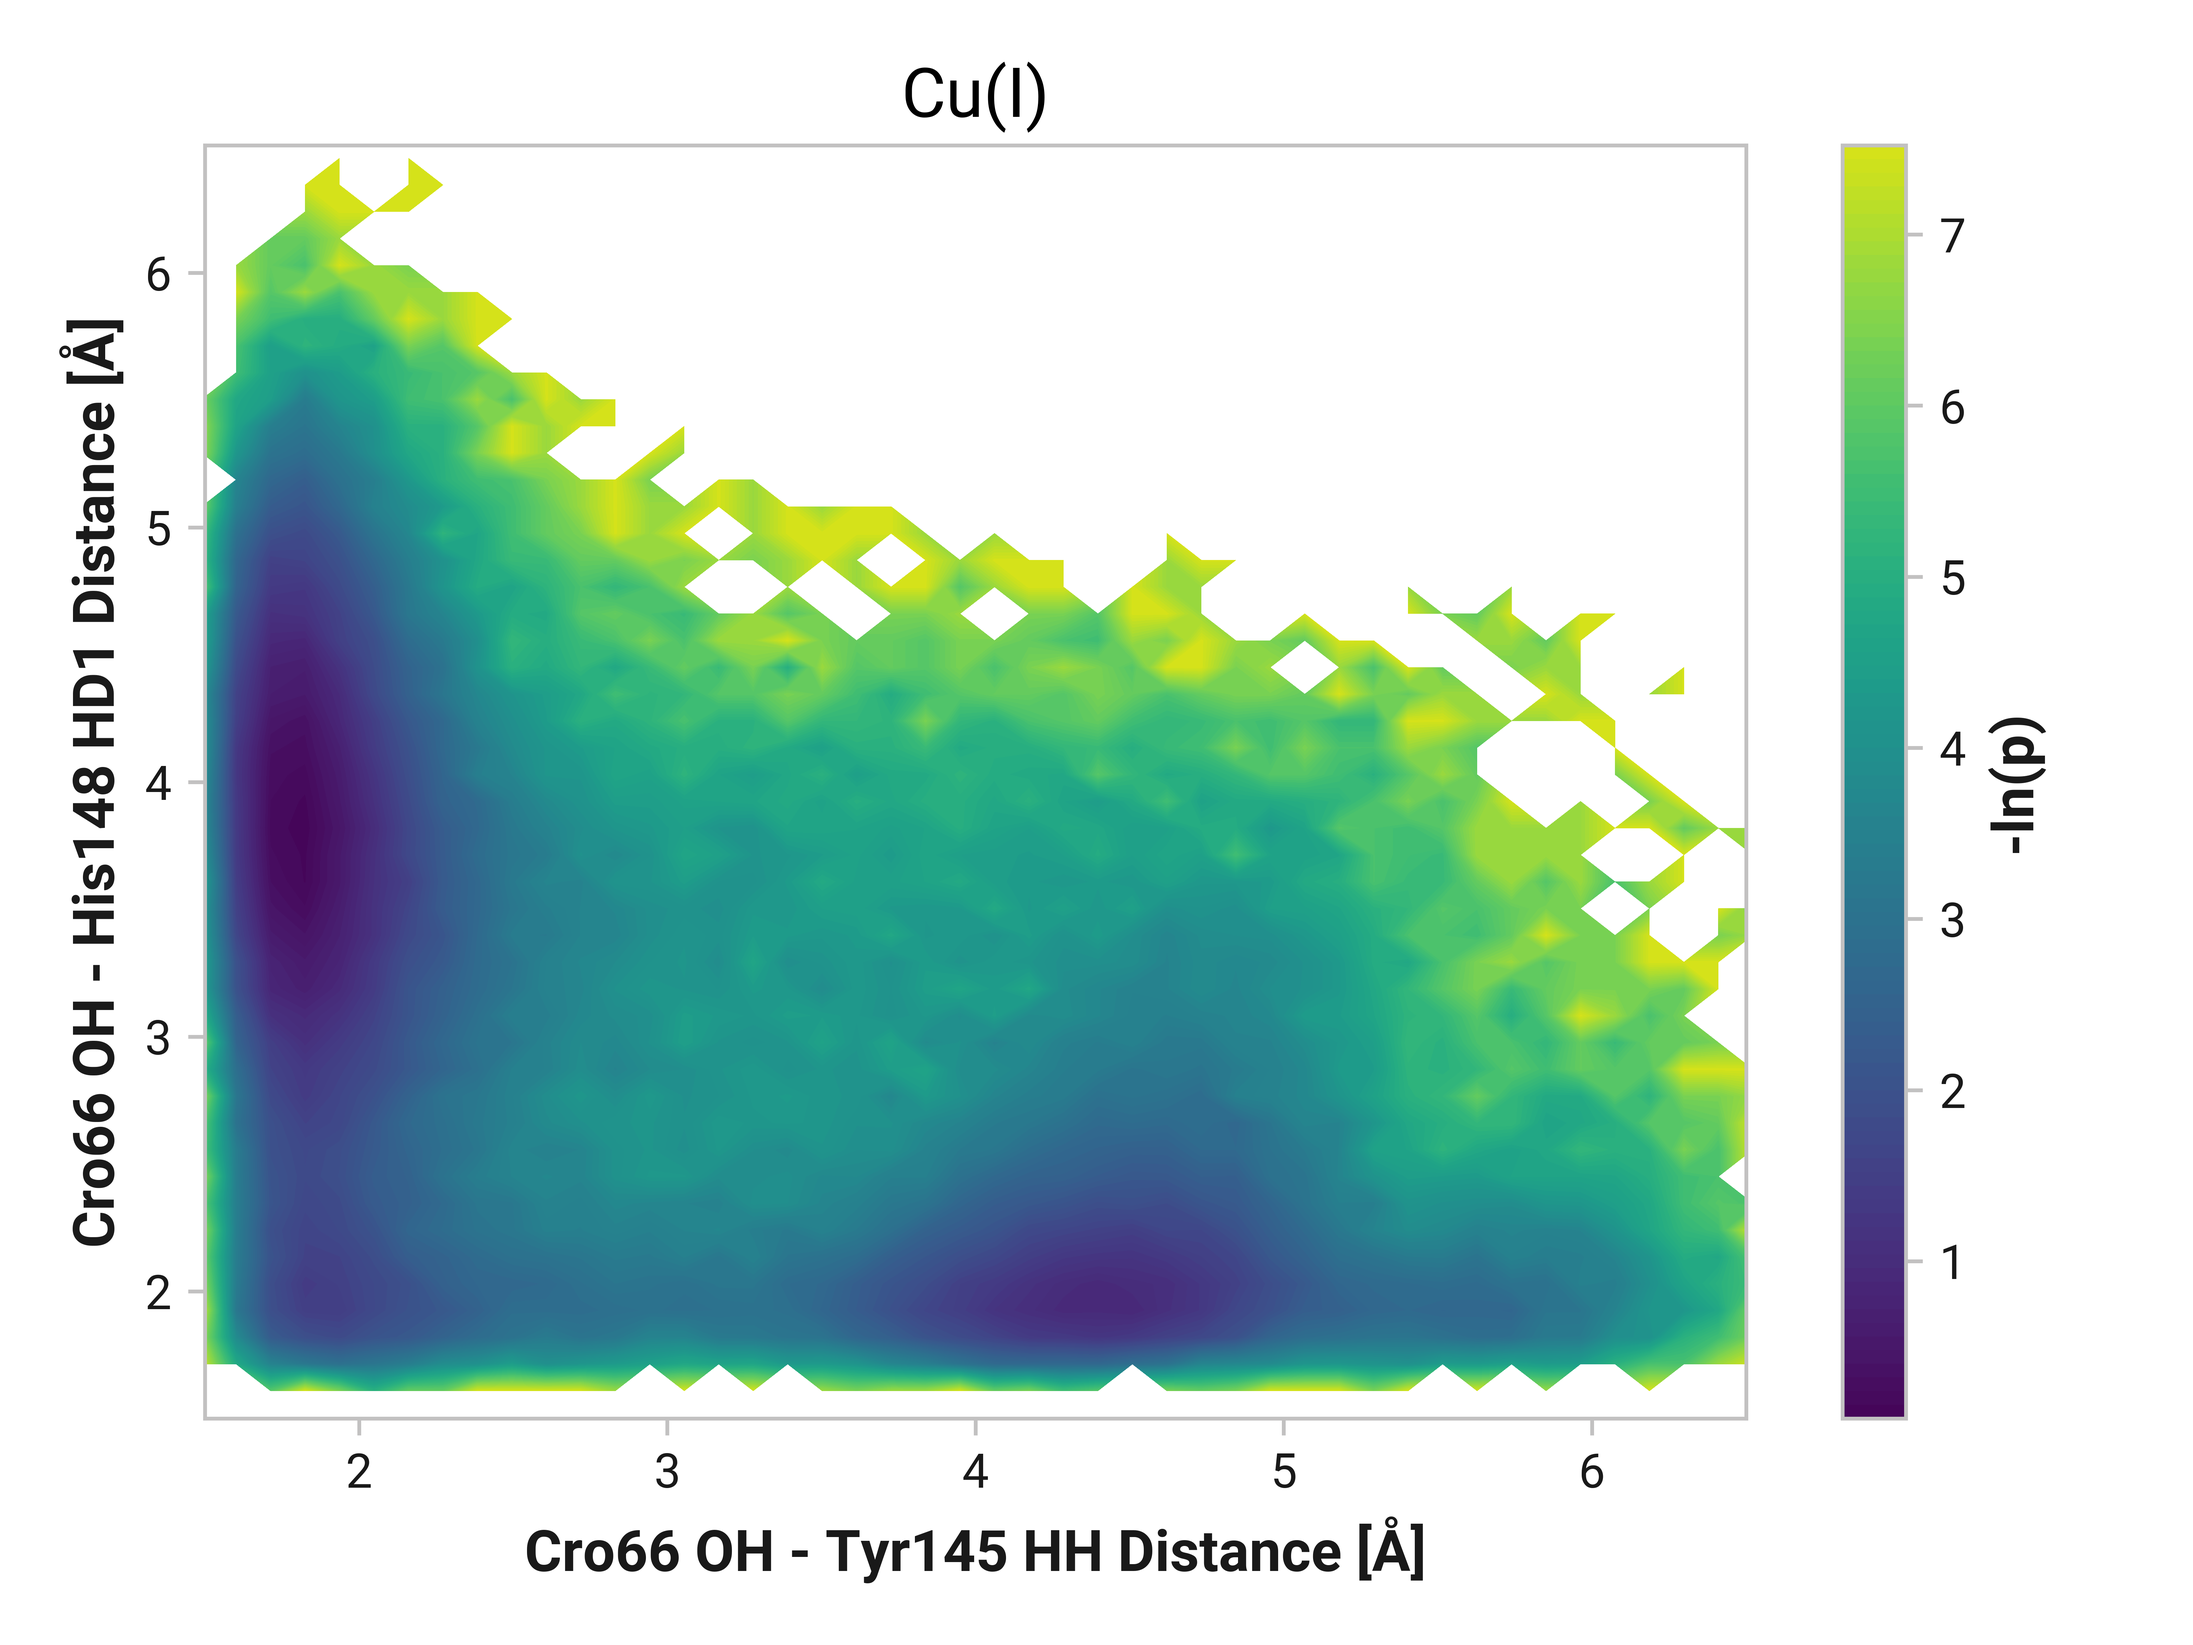
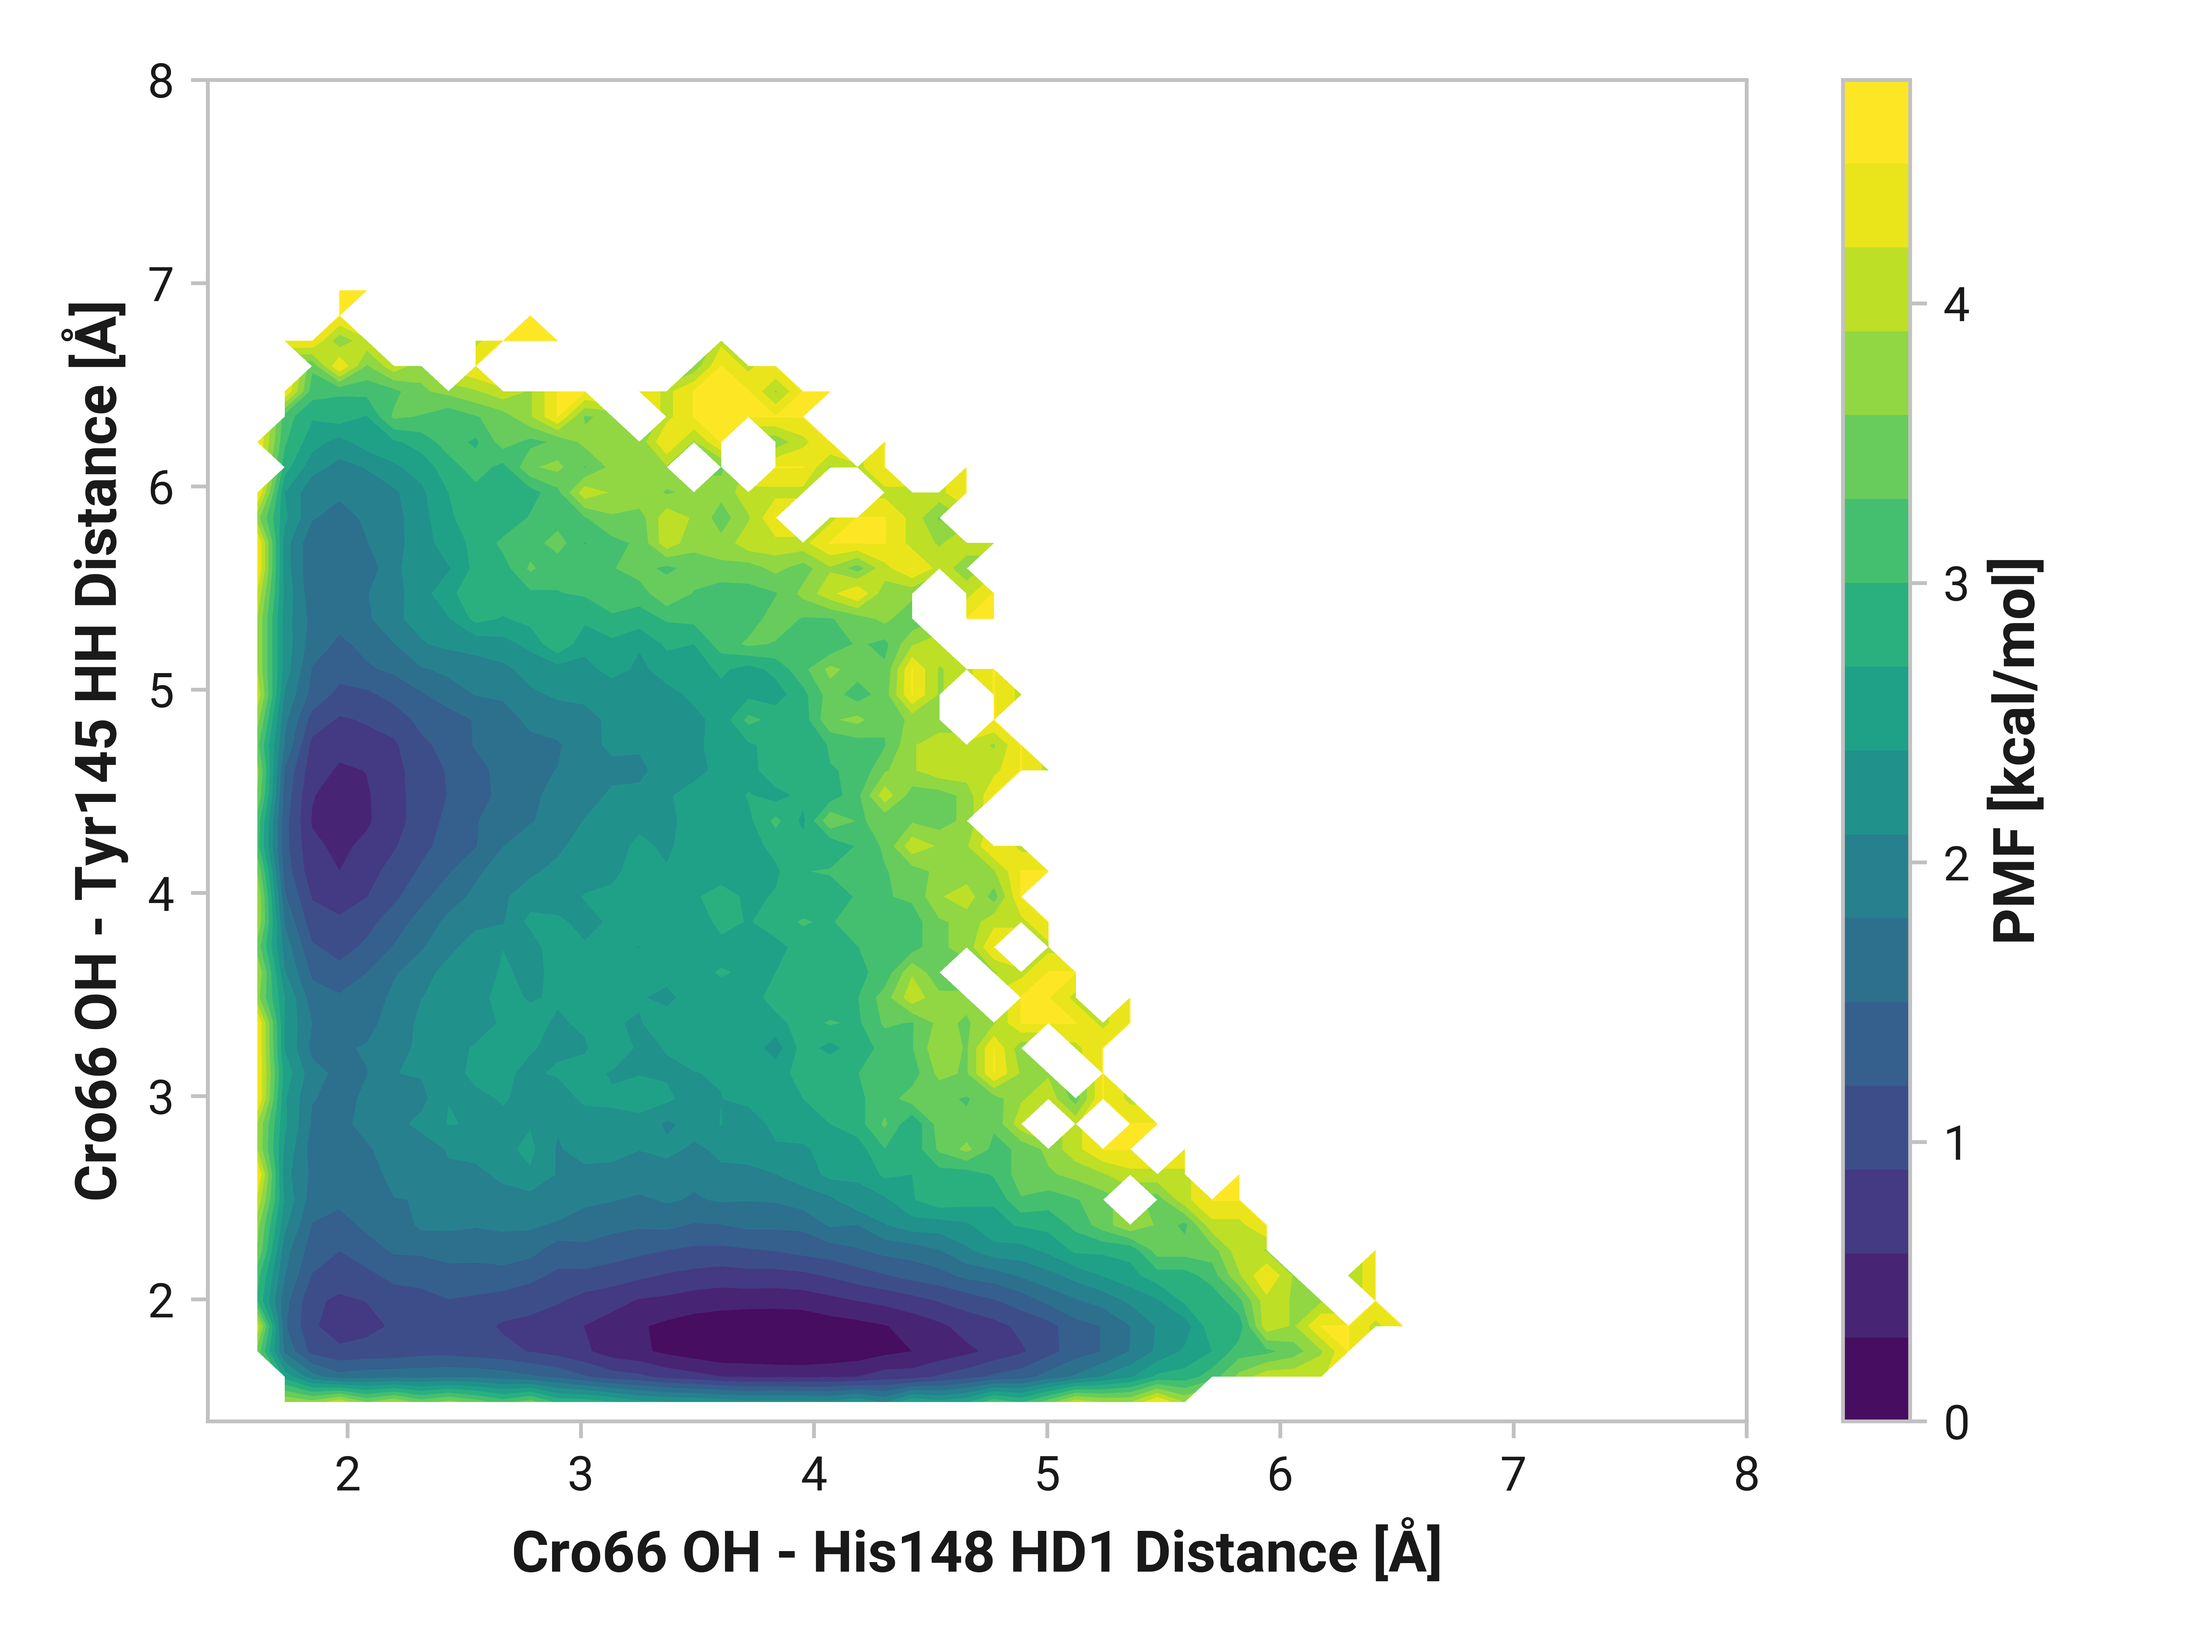
Fix b004

diff --git a/study/figures/b-cro-between/b004-his148_hd1-tyr145_hh/pes.py b/study/figures/b-cro-between/b004-his148_hd1-tyr145_hh/pes.py
@@ -7,69 +7,97 @@ from metalflare.analysis.figures import use_mpl_rc_params
 
 os.chdir(os.path.dirname(os.path.realpath(__file__)))
 
+KB = 1.987204259e-3  # kcal/(mol K)
+T = 300.0  # Kelvin
+bin_min, bin_max = 1, 10
+bin_width = 0.2
+n_bins = int((bin_max - bin_min) / bin_width)
+x_lims = (1.4, 8)
+y_lims = (1.4, 8)
+
 fig_label = "b004-pes"
-data1_str = "cro65_oh-his146_hd1-dist"
-data1_label = "Cro66 OH - His148 HD1 Distance [Å]"
-data2_str = "cro65_oh-tyr143_hh-dist"
-data2_label = "Cro66 OH - Tyr145 HH Distance [Å]"
+data_x_str = "cro65_oh-his146_hd1-dist"
+data_x_label = "Cro66 OH - His148 HD1 Distance [Å]"
+data_y_str = "cro65_oh-tyr143_hh-dist"
+data_y_label = "Cro66 OH - Tyr145 HH Distance [Å]"
 
 
-def create_histogram(x_data, y_data, bins=50):
-    hist, x_edges, y_edges = np.histogram2d(x_data, y_data, bins=bins, density=True)
+def create_histogram(x_data, y_data, bins=30, in_energy=True):
+    hist, x_edges, y_edges = np.histogram2d(x_data, y_data, bins=bins)
     hist = np.ma.masked_where(hist == 0, hist)
+    hist /= np.sum(hist)
     hist = -np.log(hist)
+    if in_energy:
+        hist *= KB * T
+        hist -= np.min(hist)
     x_centers = (x_edges[:-1] + x_edges[1:]) / 2
     y_centers = (y_edges[:-1] + y_edges[1:]) / 2
-    return hist, x_centers, y_centers
+    bins_info = {"edges": (x_edges, y_edges), "centers": (x_centers, y_centers)}
+    return hist, bins_info
 
 
-def create_pes(x_data, y_data, plot_title, file_name):
-    hist, x_centers, y_centers = create_histogram(x_data, y_data)
+def create_pes(x_data, y_data, file_name):
+    hist, bins_info = create_histogram(x_data, y_data, bins=n_bins, in_energy=True)
 
-    vmin, vmax = 0, 8
+    vmin, vmax = 0, 4.5
     norm = mpl.colors.Normalize(vmin=vmin, vmax=vmax, clip=True)
 
     contour = plt.contourf(
-        x_centers, y_centers, hist.T, levels=100, cmap="viridis", norm=norm
+        *bins_info["centers"], hist.T, levels=15, cmap="viridis", norm=norm
     )
-    plt.colorbar(contour, label="-ln(p)", norm=norm, ticks=list(range(vmin, vmax + 1)))
+    plt.colorbar(
+        contour,
+        label="PMF [kcal/mol]",
+        norm=norm,
+        ticks=list(range(vmin, int(np.floor(vmax)) + 1)),
+    )
 
-    plt.xlabel(data2_label)
-    plt.xlim(1.5, 6.5)
-    plt.ylabel(data1_label)
-    plt.ylim(1.5, 6.5)
-    plt.title(plot_title)
+    plt.xlabel(data_x_label)
+    plt.xlim(*x_lims)
+    plt.ylabel(data_y_label)
+    plt.ylim(*y_lims)
     plt.tight_layout()
     plt.savefig(file_name)
     plt.close()
 
 
-def create_difference_pes(x_data_cu, y_data_cu, x_data_red, y_data_red, file_name):
-    hist_cu, x_centers, y_centers = create_histogram(x_data_cu, y_data_cu)
-    hist_red, _, _ = create_histogram(x_data_red, y_data_red)
+def masked_difference(hist_ref, hist):
+    diff = hist - hist_ref
 
-    # Fill masked values with a high number (less probable than any real data point)
-    high_value = np.max(hist_cu.filled(0)) + 1
-    hist_cu_filled = hist_cu.filled(high_value)
-    hist_red_filled = hist_red.filled(high_value)
+    # Handle the special cases
+    mask_not_in_ref = np.where(hist_ref.mask & ~hist.mask)
+    mask_only_in_ref = np.where(~hist_ref.mask & hist.mask)
+    diff[mask_not_in_ref] = hist[mask_not_in_ref] - np.max(hist)
+    diff[mask_only_in_ref] = -hist_ref[mask_only_in_ref]
 
-    diff_hist = hist_cu_filled - hist_red_filled
+    # The result is not masked
+    return diff
 
-    # Mask the difference where both original histograms were masked
-    diff_hist = np.ma.masked_where((hist_cu.mask) & (hist_red.mask), diff_hist)
+
+def create_difference_pes(data_x_ref, data_y_ref, data_x, data_y, file_name):
+    hist_ref, bins_info = create_histogram(
+        data_x_ref, data_y_ref, bins=n_bins, in_energy=True
+    )
+    hist, _ = create_histogram(
+        data_x, data_y, bins=bins_info["edges"], in_energy=True
+    )
+
+    hist_diff = masked_difference(hist_ref, hist)
 
     vmin, vmax = -5, 5
     norm = mpl.colors.TwoSlopeNorm(vmin=vmin, vcenter=0, vmax=vmax)
 
     contour = plt.contourf(
-        x_centers, y_centers, diff_hist.T, levels=100, cmap="RdBu_r", norm=norm
+        *bins_info["centers"], hist_diff.T, levels=200, cmap="RdBu_r", norm=norm
     )
-    plt.colorbar(contour, label="-Δln(p)", norm=norm, ticks=list(range(vmin, vmax + 1)))
+    plt.colorbar(
+        contour, label="ΔPMF [kcal/mol]", norm=norm, ticks=list(range(vmin, vmax + 1))
+    )
 
-    plt.xlabel(data2_label)
-    plt.xlim(1.5, 6.5)
-    plt.ylabel(data1_label)
-    plt.ylim(1.5, 6.5)
+    plt.xlabel(data_x_label)
+    plt.xlim(*x_lims)
+    plt.ylabel(data_y_label)
+    plt.ylim(*y_lims)
     plt.tight_layout()
     plt.savefig(file_name)
     plt.close()
@@ -89,50 +117,50 @@ if __name__ == "__main__":
     # Original data
     rogfp_dist_path = os.path.join(
         base_dir,
-        f"analysis/005-rogfp-glh-md/data/struct-desc/{data1_str}.npy",
+        f"analysis/005-rogfp-glh-md/data/struct-desc/{data_x_str}.npy",
     )
-    data1_red = np.load(rogfp_dist_path)
+    data_x_red = np.load(rogfp_dist_path)
 
-    data1_oxd_path = os.path.join(
+    data_x_oxd_path = os.path.join(
         base_dir,
-        f"analysis/007-rogfp-oxd-glh-md/data/struct-desc/{data1_str}.npy",
+        f"analysis/007-rogfp-oxd-glh-md/data/struct-desc/{data_x_str}.npy",
     )
-    data1_oxd = np.load(data1_oxd_path)
+    data_x_oxd = np.load(data_x_oxd_path)
 
     rogfp_cu_dist_path = os.path.join(
         base_dir,
-        f"analysis/006-rogfp-cu-glh-md/data/struct-desc/{data1_str}.npy",
+        f"analysis/006-rogfp-cu-glh-md/data/struct-desc/{data_x_str}.npy",
     )
-    data1_cu = np.load(rogfp_cu_dist_path)
+    data_x_cu = np.load(rogfp_cu_dist_path)
 
     # Cys data
-    data2_red_path = os.path.join(
+    data_y_red_path = os.path.join(
         base_dir,
-        f"analysis/005-rogfp-glh-md/data/struct-desc/{data2_str}.npy",
+        f"analysis/005-rogfp-glh-md/data/struct-desc/{data_y_str}.npy",
     )
-    data2_red = np.load(data2_red_path)
+    data_y_red = np.load(data_y_red_path)
 
-    data2_oxd_path = os.path.join(
+    data_y_oxd_path = os.path.join(
         base_dir,
-        f"analysis/007-rogfp-oxd-glh-md/data/struct-desc/{data2_str}.npy",
+        f"analysis/007-rogfp-oxd-glh-md/data/struct-desc/{data_y_str}.npy",
     )
-    data2_oxd = np.load(data2_oxd_path)
+    data_y_oxd = np.load(data_y_oxd_path)
 
-    data2_cu_path = os.path.join(
+    data_y_cu_path = os.path.join(
         base_dir,
-        f"analysis/006-rogfp-cu-glh-md/data/struct-desc/{data2_str}.npy",
+        f"analysis/006-rogfp-cu-glh-md/data/struct-desc/{data_y_str}.npy",
     )
-    data2_cu = np.load(data2_cu_path)
+    data_y_cu = np.load(data_y_cu_path)
 
-    create_pes(data2_red, data1_red, "Reduced", f"{fig_label}-reduced.png")
-    create_pes(data2_oxd, data1_oxd, "Oxidized", f"{fig_label}-oxidized.png")
-    create_pes(data2_cu, data1_cu, "Cu(I)", f"{fig_label}-cu.png")
+    create_pes(data_x_red, data_y_red, f"{fig_label}-reduced.png")
+    create_pes(data_x_oxd, data_y_oxd, f"{fig_label}-oxidized.png")
+    create_pes(data_x_cu, data_y_cu, f"{fig_label}-cu.png")
 
-    # Create the difference plot (Cu - Reduced)
+    # Create the difference plot
     create_difference_pes(
-        data2_cu, data1_cu, data2_red, data1_red, f"{fig_label}-diff-cu-red.png"
+        data_x_red, data_y_red, data_x_oxd, data_y_oxd, f"{fig_label}-diff-oxd-red.png"
     )
 
     create_difference_pes(
-        data2_oxd, data1_oxd, data2_red, data1_red, f"{fig_label}-diff-oxd-red.png"
+        data_x_red, data_y_red, data_x_cu, data_y_cu, f"{fig_label}-diff-cu-red.png"
     )
